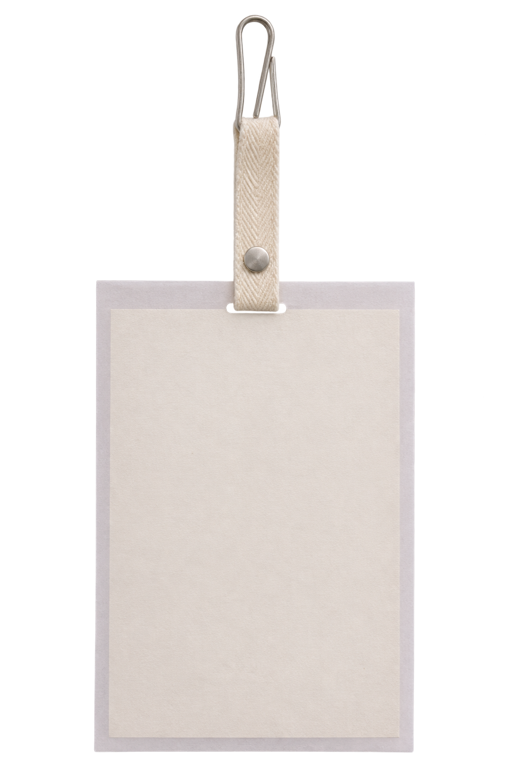
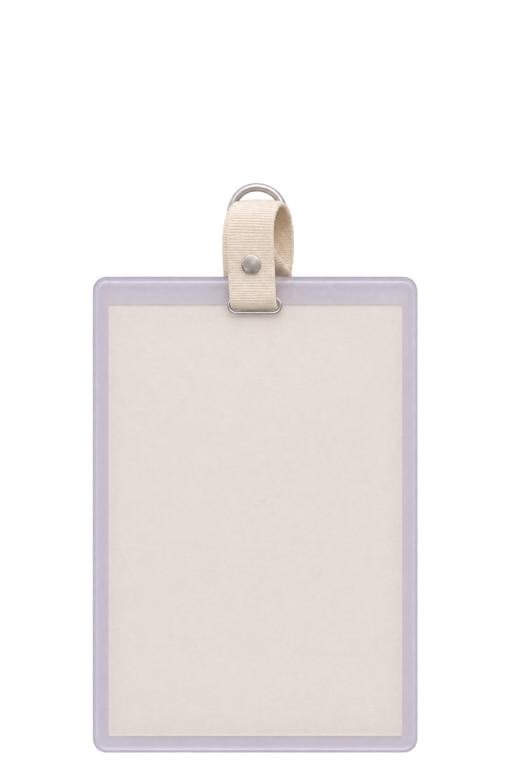
Add files via upload

Changed region(s): [[0.1875, 0.0, 0.8438, 0.9688], [0.1562, 0.375, 0.1875, 0.9688], [0.1875, 0.9688, 0.75, 1.0]]

diff --git a/panel-stationery.css b/panel-stationery.css
@@ -7,6 +7,11 @@ html.ah-layout body #top-settings-holder .drawer-content.openDrawer {
     z-index: 3015 !important;
 }
 
+/* SillyTavern mounts its prompt editor outside the MOI navigation stack. */
+html.ah-layout body #completion_prompt_manager_popup {
+    z-index: 4010 !important;
+}
+
 html.ah-layout body #top-settings-holder .drawer-content,
 html.ah-layout body .popup {
     --SmartThemeBodyColor: #655d70;
